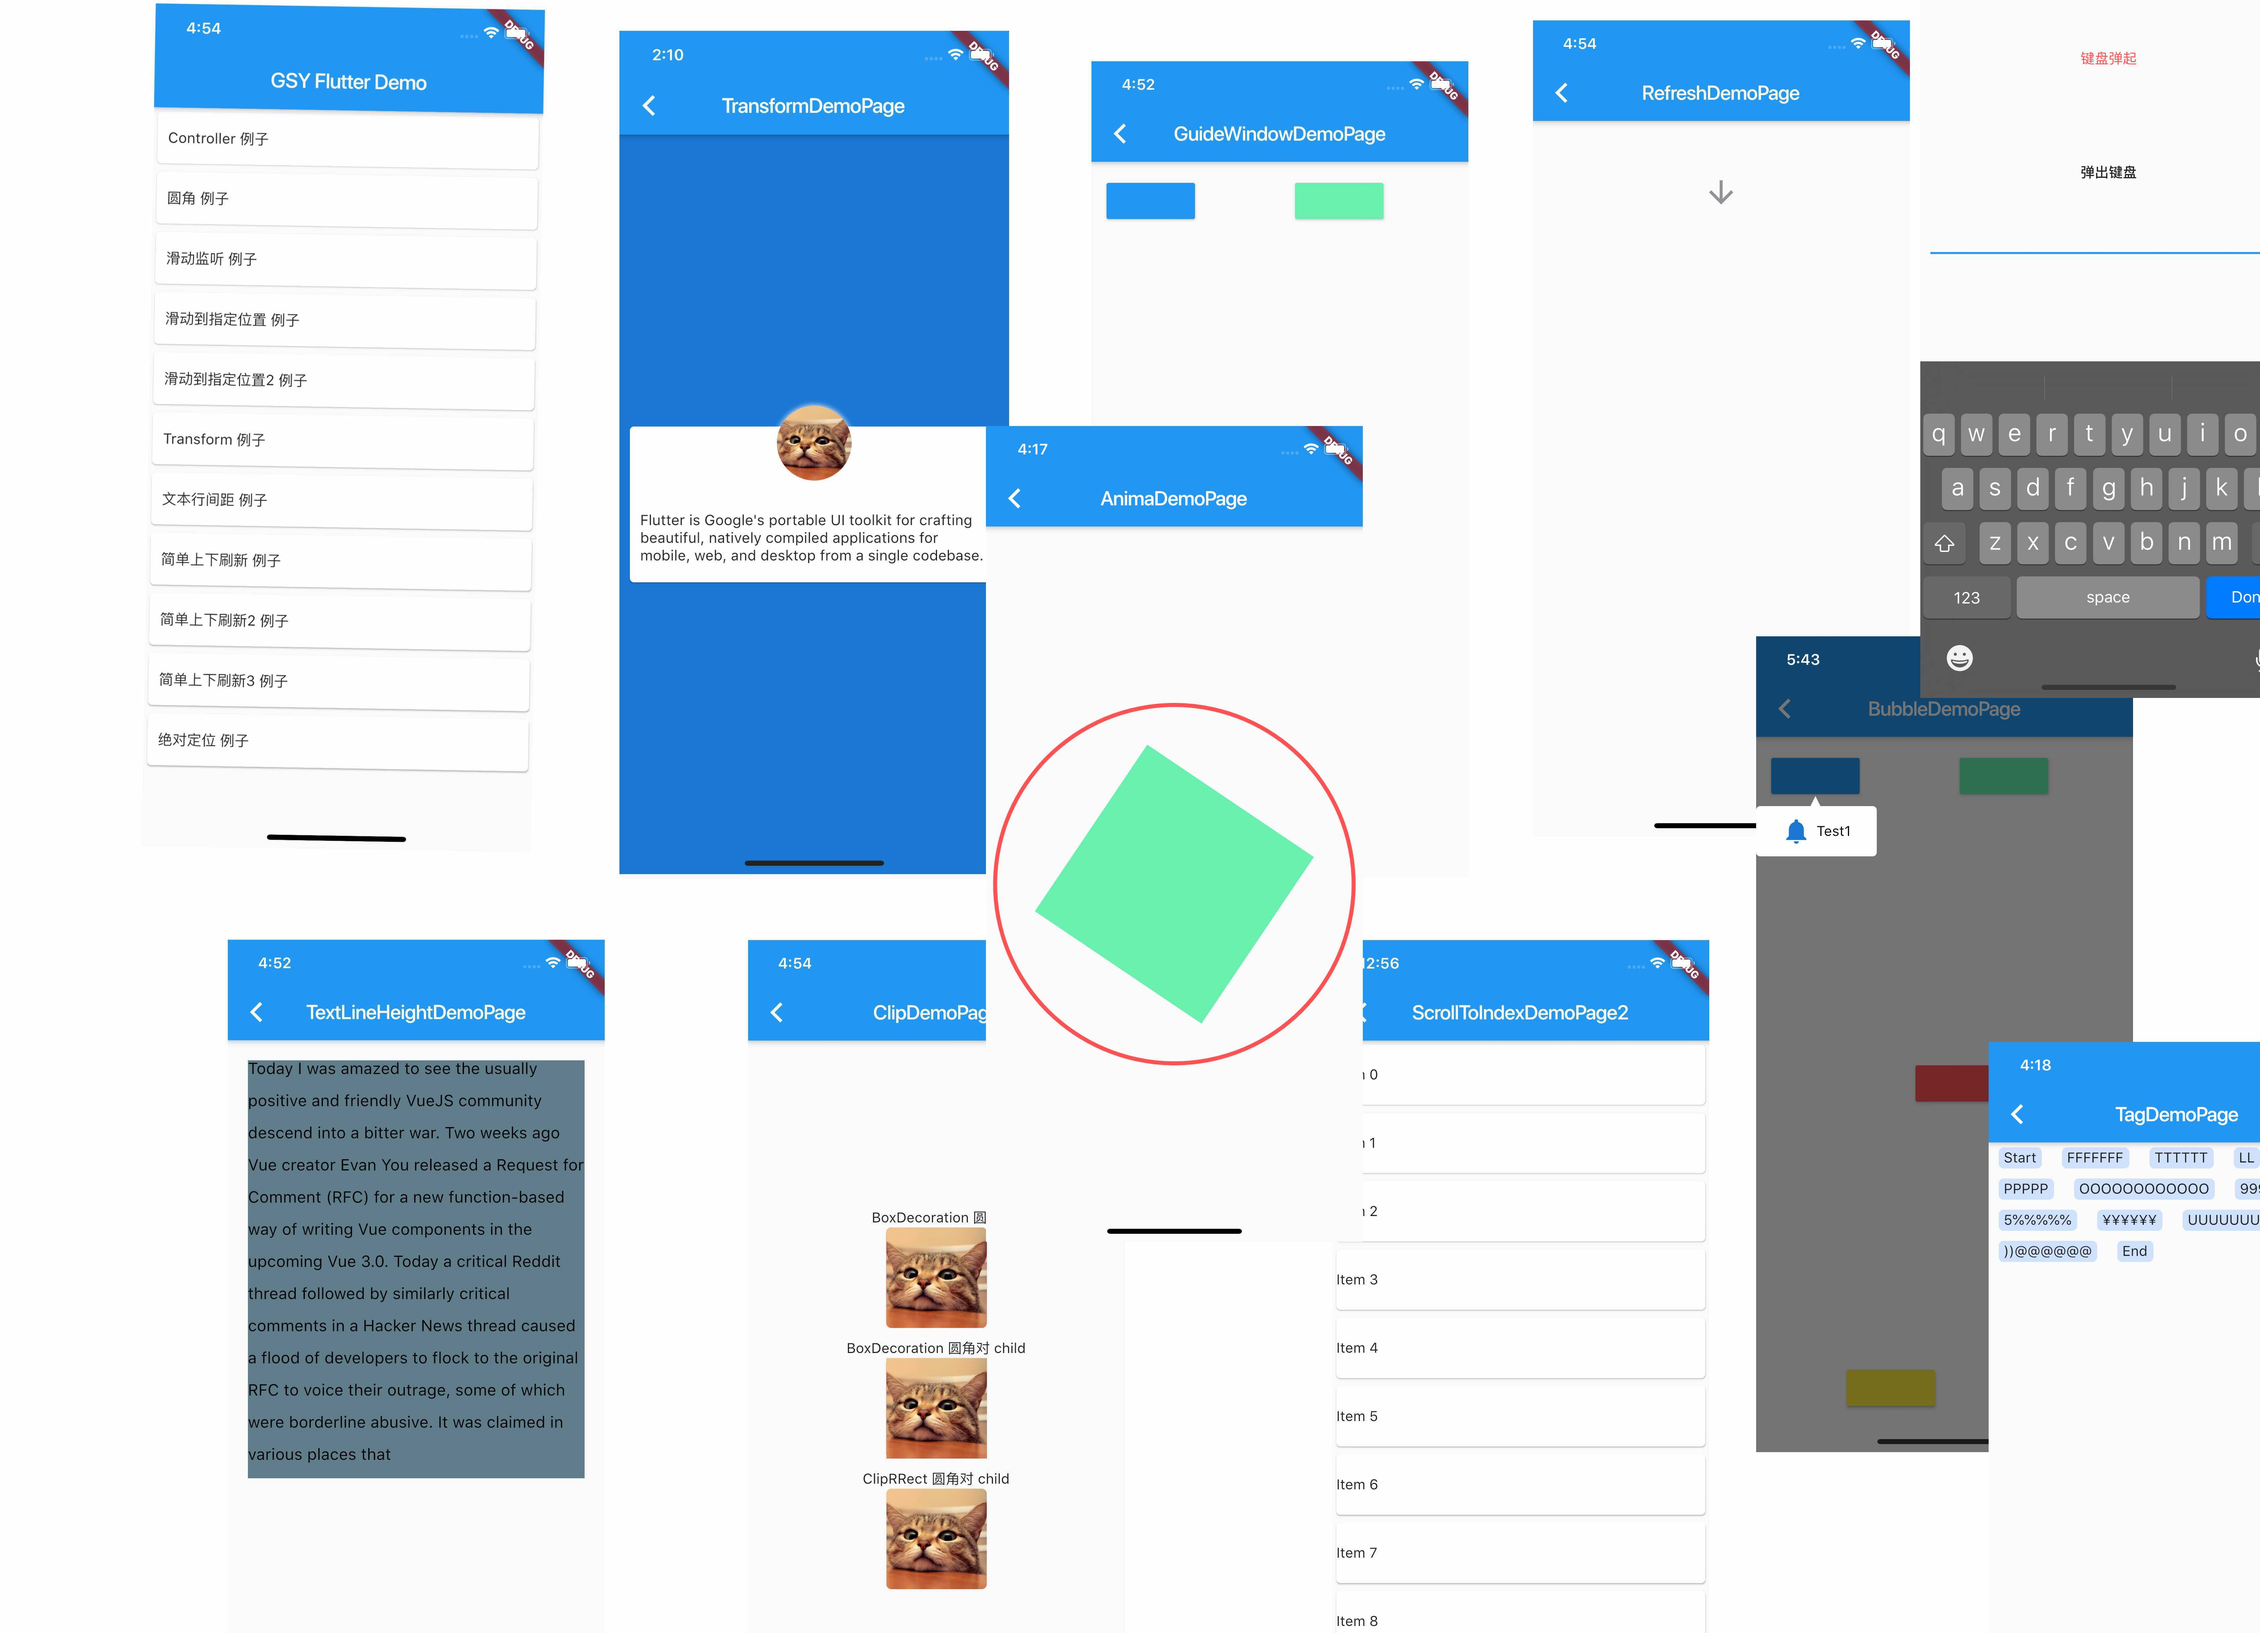
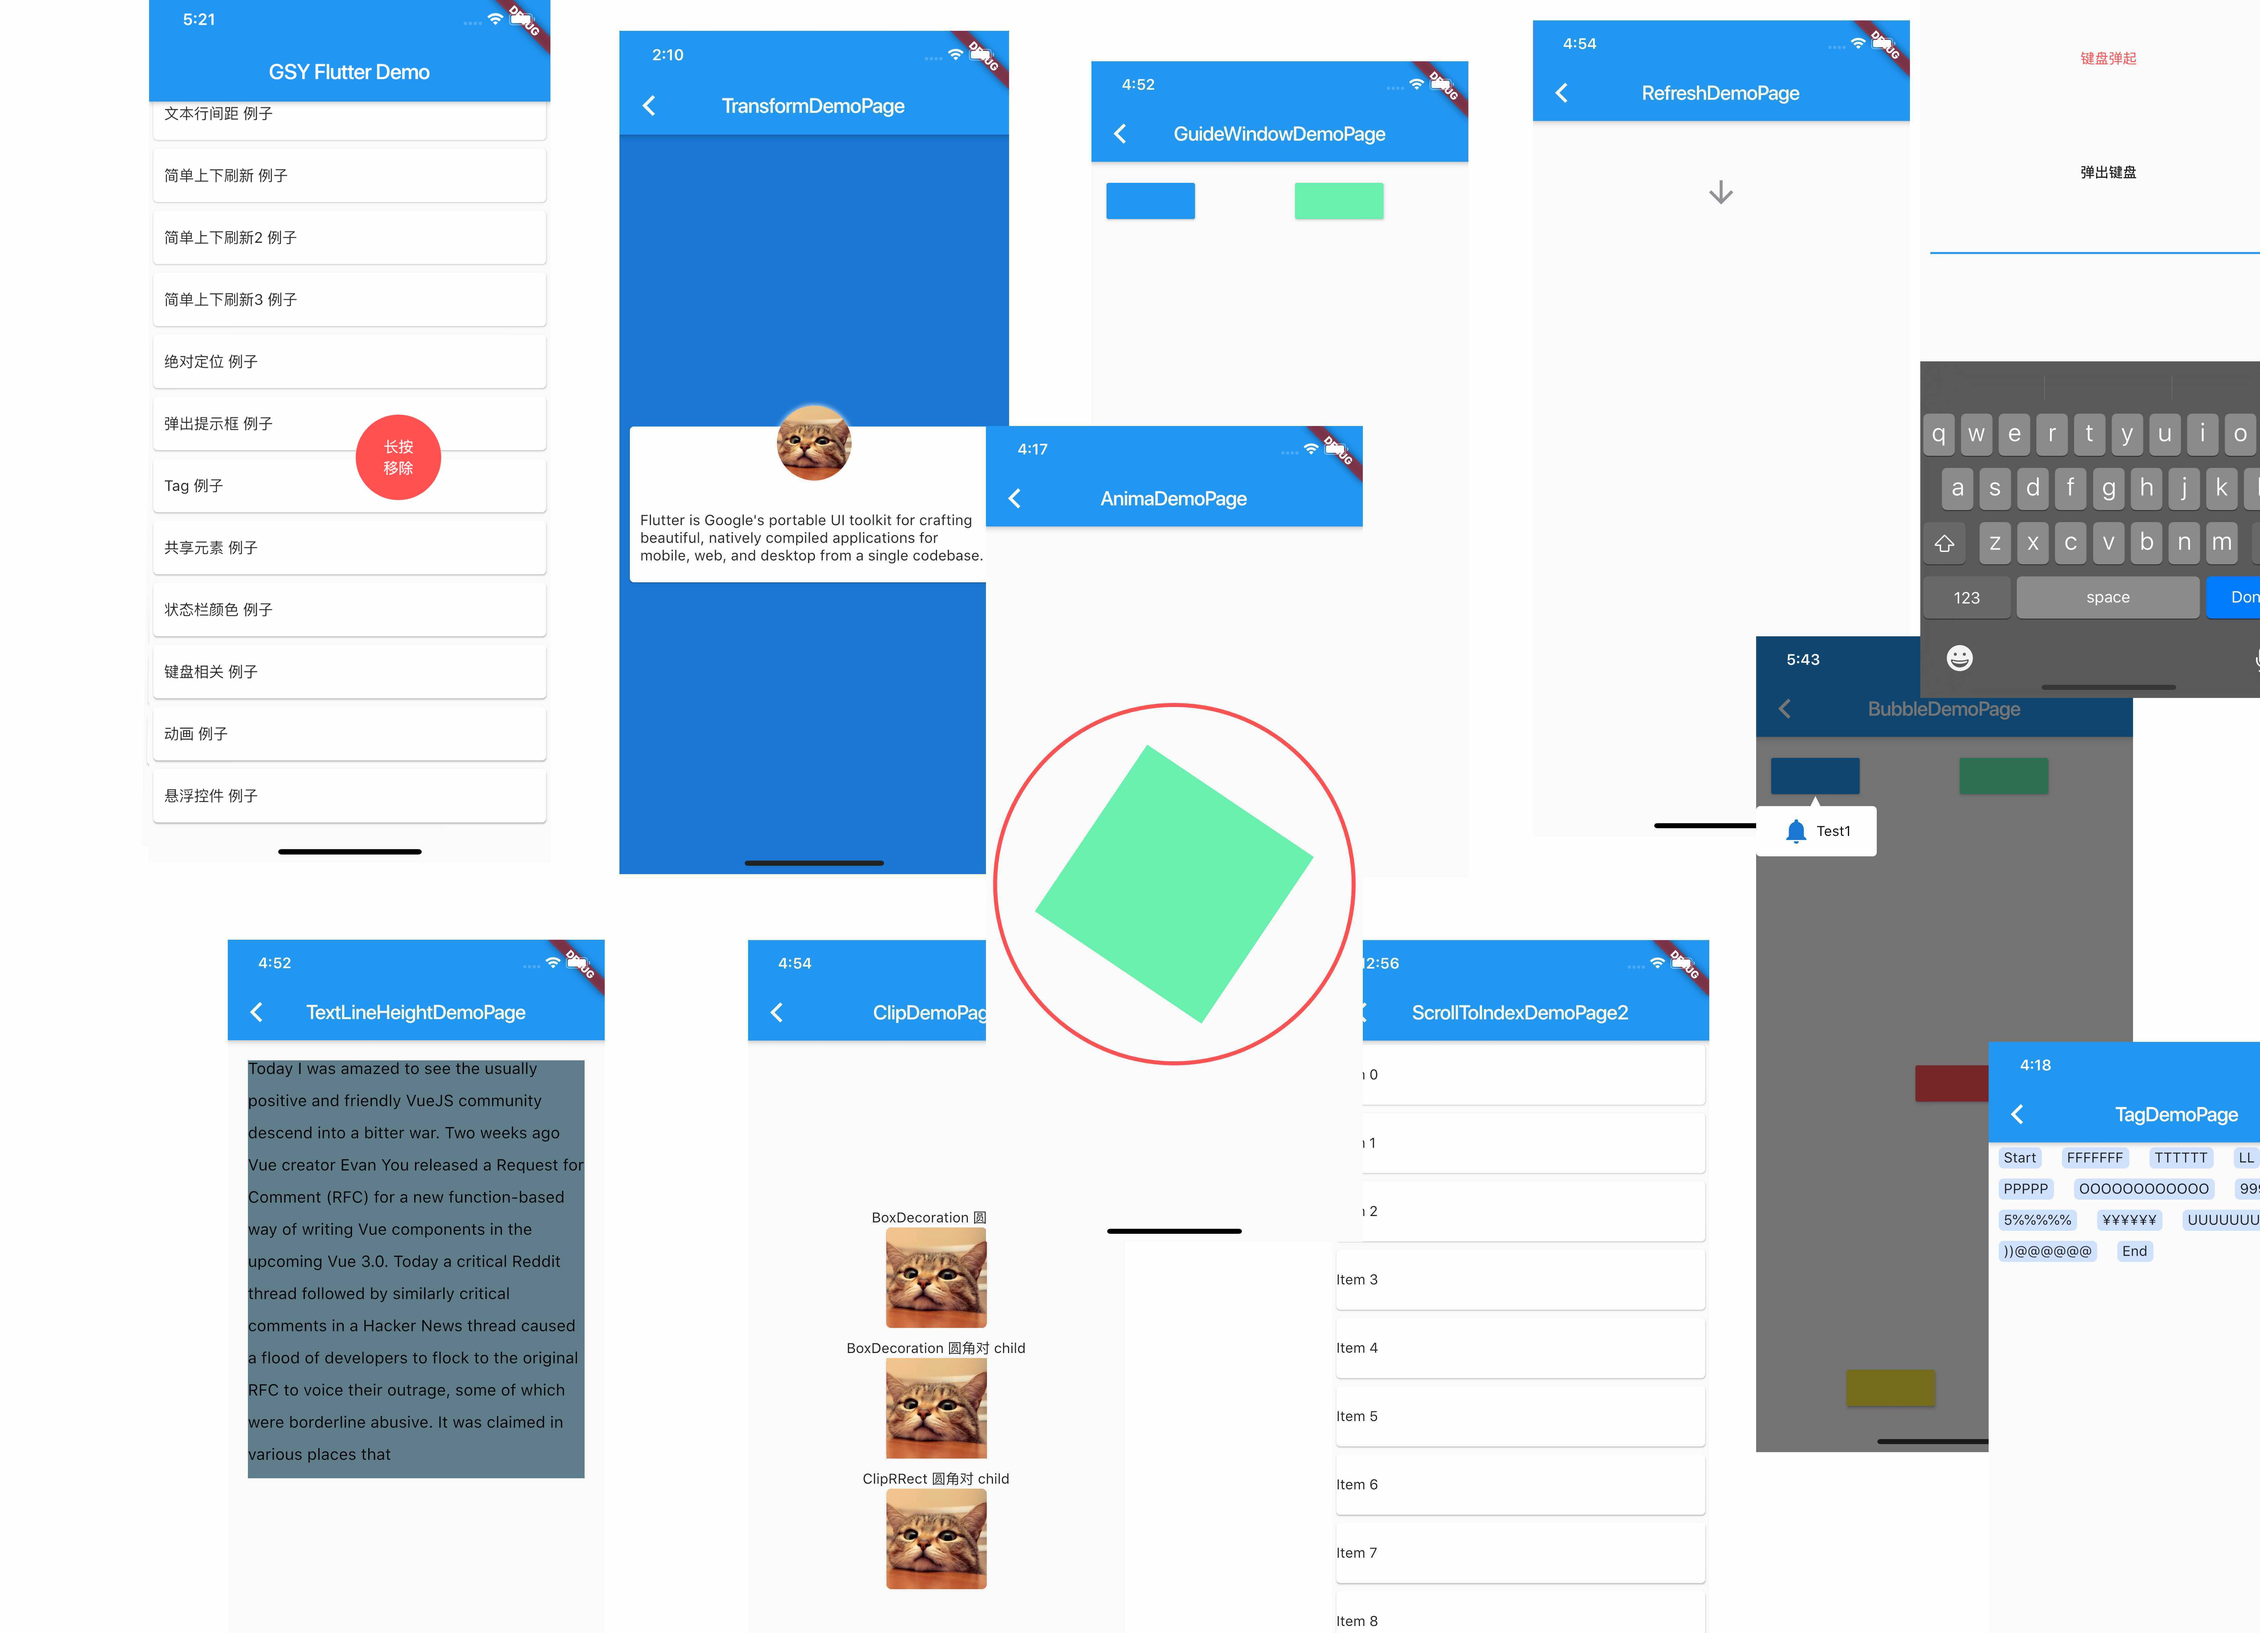
悬浮触摸控件

Changed region(s): [[0.0623, 0.0, 0.249, 0.4988], [0.1556, 0.2494, 0.2179, 0.3117], [0.1245, 0.4988, 0.1868, 0.5299]]

diff --git a/lib/widget/floating_touch_demo_page.dart b/lib/widget/floating_touch_demo_page.dart
@@ -1,0 +1,85 @@
+import 'package:flutter/material.dart';
+
+///全局悬浮按键
+class FloatingTouchDemoPage extends StatefulWidget {
+  @override
+  _FloatingTouchDemoPageState createState() => _FloatingTouchDemoPageState();
+}
+
+class _FloatingTouchDemoPageState extends State<FloatingTouchDemoPage> {
+  Offset offset = Offset(200, 200);
+
+  final double height = 80;
+
+  ///显示悬浮控件
+  _showFloating() {
+    var overlayState = Overlay.of(context);
+    OverlayEntry overlayEntry;
+    overlayEntry = new OverlayEntry(builder: (context) {
+      return Stack(
+        children: <Widget>[
+          new Positioned(
+            left: offset.dx,
+            top: offset.dy,
+            child: _buildFloating(overlayEntry),
+          ),
+        ],
+      );
+    });
+
+    ///插入全局悬浮控件
+    overlayState.insert(overlayEntry);
+  }
+
+  ///绘制悬浮控件
+  _buildFloating(OverlayEntry overlayEntry) {
+    return GestureDetector(
+      behavior: HitTestBehavior.deferToChild,
+      onPanDown: (details) {
+        offset = details.globalPosition - Offset(height / 2, height / 2);
+        overlayEntry.markNeedsBuild();
+      },
+      onPanUpdate: (DragUpdateDetails details) {
+        ///根据触摸修改悬浮控件偏移
+        offset = offset + details.delta;
+        overlayEntry.markNeedsBuild();
+      },
+      onLongPress: () {
+        overlayEntry.remove();
+      },
+      child: new Material(
+        color: Colors.transparent,
+        child: Container(
+          height: height,
+          width: height,
+          alignment: Alignment.center,
+          decoration: BoxDecoration(
+              color: Colors.redAccent,
+              borderRadius: BorderRadius.all(Radius.circular(height / 2))),
+          child: new Text(
+            "长按\n移除",
+            style: TextStyle(color: Colors.white),
+          ),
+        ),
+      ),
+    );
+  }
+
+  @override
+  Widget build(BuildContext context) {
+    return Scaffold(
+      appBar: AppBar(
+        title: new Text("FloatingTouchDemoPage"),
+      ),
+      body: new Container(
+        child: Center(
+          child: FlatButton(
+              onPressed: () {
+                _showFloating();
+              },
+              child: new Text("显示悬浮")),
+        ),
+      ),
+    );
+  }
+}

diff --git a/lib/main.dart b/lib/main.dart
@@ -4,6 +4,7 @@ import 'package:gsy_flutter_demo/widget/bubble/bubble_demo_page.dart';
 import 'package:gsy_flutter_demo/widget/clip_demo_page.dart';
 import 'package:gsy_flutter_demo/widget/controller_demo_page.dart';
 import 'package:gsy_flutter_demo/widget/custom_pull/refrsh_demo_page3.dart';
+import 'package:gsy_flutter_demo/widget/floating_touch_demo_page.dart';
 import 'package:gsy_flutter_demo/widget/honor_demo_page.dart';
 import 'package:gsy_flutter_demo/widget/keyboard_demo_page.dart';
 import 'package:gsy_flutter_demo/widget/positioned_demo_page.dart';
@@ -93,6 +94,7 @@ const routerName = [
   "状态栏颜色 例子",
   "键盘相关 例子",
   "动画 例子",
+  "悬浮触摸控件 例子",
 ];
 
 Map<String, WidgetBuilder> routers = {
@@ -147,5 +149,7 @@ Map<String, WidgetBuilder> routers = {
   "widget/anima": (context) {
     return new AnimaDemoPage();
   },
-
+  "widget/floating": (context) {
+    return new FloatingTouchDemoPage();
+  },
 };

diff --git a/README.md b/README.md
@@ -22,6 +22,7 @@
 - **修改状态栏颜色 例子**
 - **系统键盘相关 例子**
 - **动画相关 例子**
+- **悬浮触摸控件 例子**
 
 
 ![](demo.jpg)
